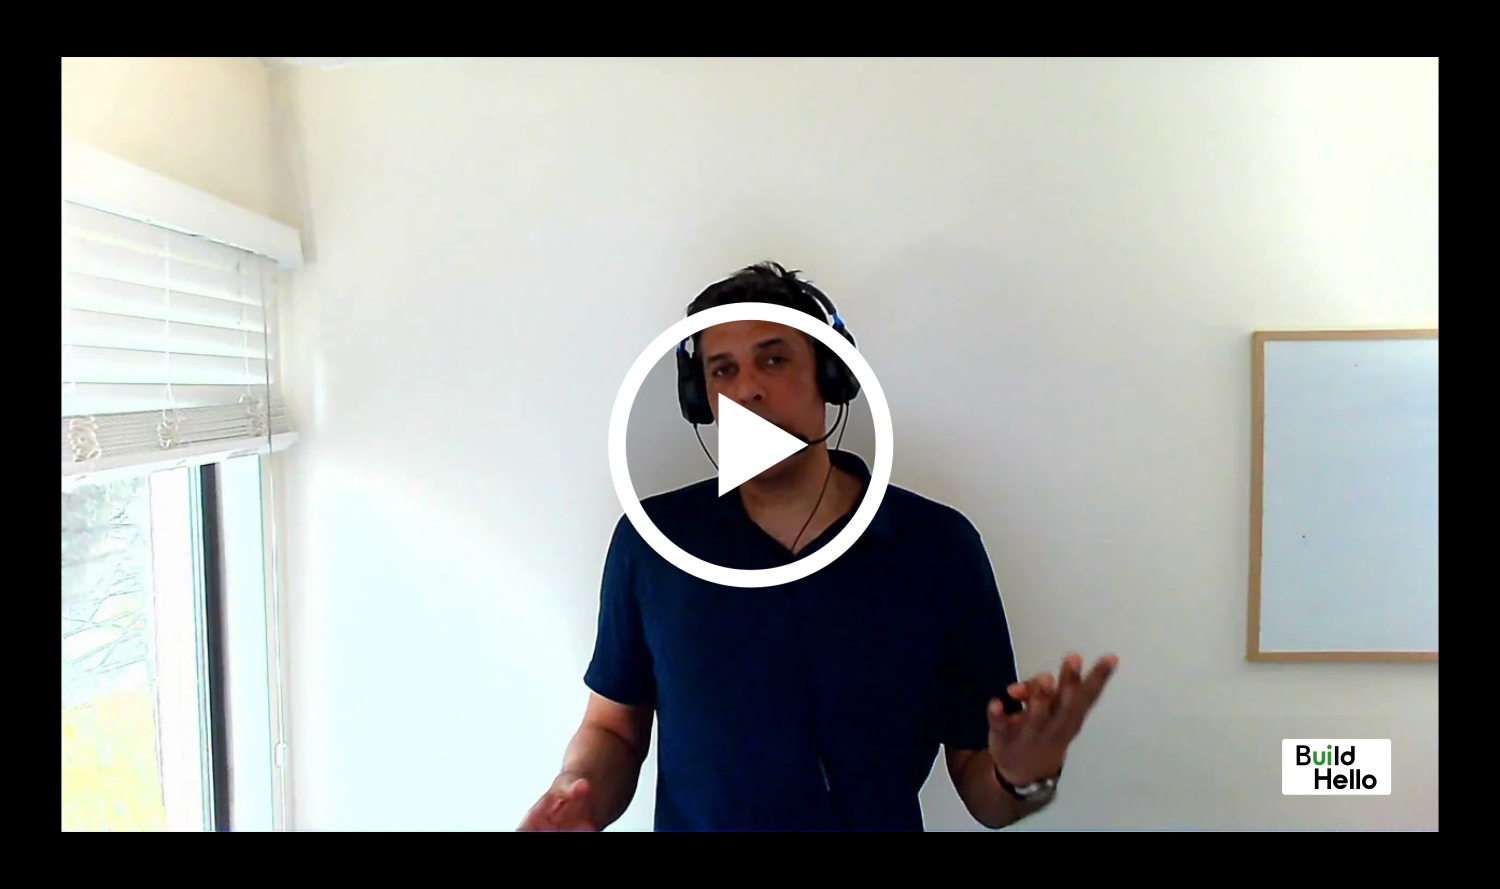
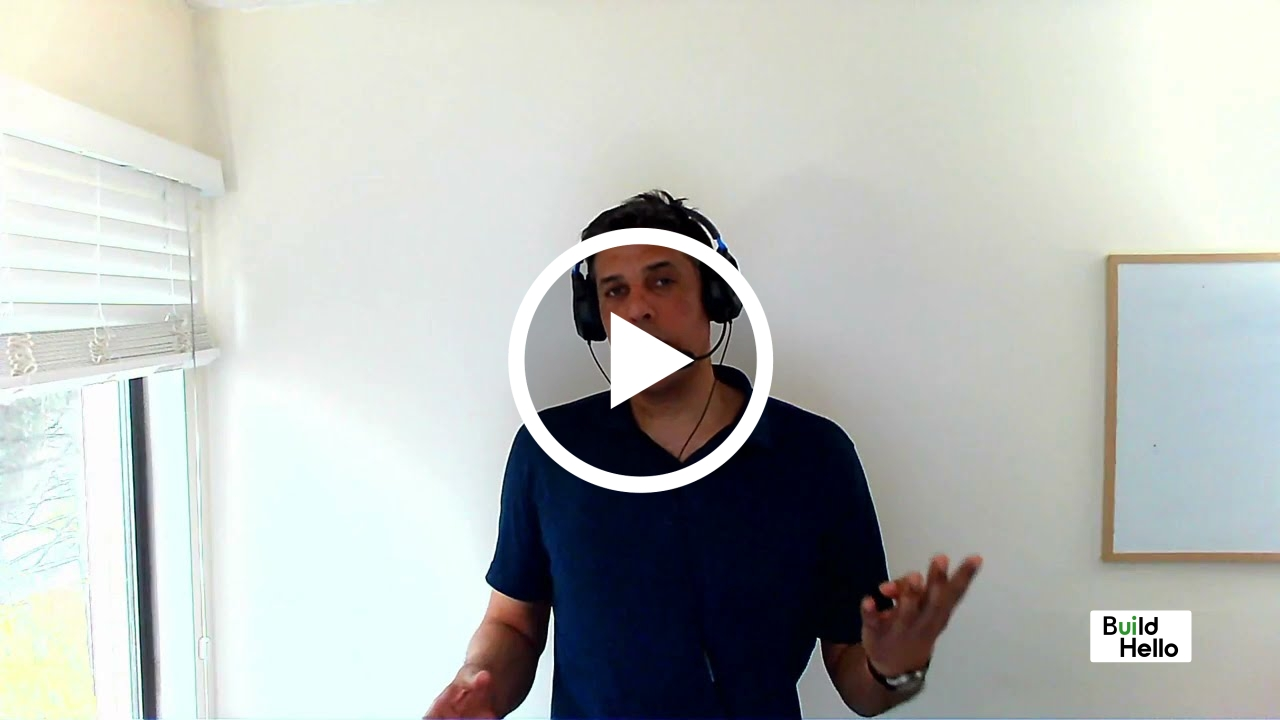
update build hello

diff --git a/blog/2021-11-19-what-is-lighthouse/index.html b/blog/2021-11-19-what-is-lighthouse/index.html
@@ -1,5 +1,5 @@
 <!doctype html><html lang="en"><head><meta charset="utf-8"><meta http-equiv="X-UA-Compatible" content="IE=edge,chrome=1"><meta name="author" content="Build Hello"><meta name="copyright" content="Copyright 2020 - 2021 by Build Hello All rights reserved."><meta name="viewport" content="width=device-width,height=device-height,initial-scale=1,minimum-scale=1,shrink-to-fit=no"><script type="text/json" id="csp-report-uri">{"keys" : ["blockedURI", "columnNumber", "disposition", "documentURI", "effectiveDirective", "lineNumber", "originalPolicy", "referrer", "sample", "sourceFile", "statusCode", "violatedDirective"],
-"reportUri" : "https://20d3a3ce41e0e657296e6f466608bffa.report-uri.com/r/d/csp/enforce"}</script><script src="https://cdn.report-uri.com/libs/report-uri-js/1.0.1/report-uri-js.min.js" integrity="sha256-Cng8gUe98XCqh5hc8nAM3y5I1iQHBjzOl8X3/iAd4jE=" crossorigin="anonymous"></script><meta http-equiv="Content-Security-Policy" content="upgrade-insecure-requests; block-all-mixed-content; default-src 'self';style-src 'self' 'unsafe-inline' fonts.googleapis.com fonts.gstatic.com; script-src 'self' 'unsafe-eval' 'unsafe-inline' fonts.googleapis.com fonts.gstatic.com google.com/recaptcha gstatic.com/recaptcha googletagmanager.com www.googletagmanager.com graphcomment.com *.graphcomment.com cdn.report-uri.com cdnjs.cloudflare.com static.hotjar.com script.hotjar.com; media-src 'self' youtube.com youtube-nocookie.com www.youtube.com www.youtube-nocookie.com vimeo.com www.vimeo.com; frame-src 'self' youtube.com youtube-nocookie.com www.youtube.com www.youtube-nocookie.com vimeo.com www.vimeo.com graphcomment.com *.graphcomment.com vars.hotjar.com; font-src 'self' fonts.googleapis.com fonts.gstatic.com; object-src 'none'; base-uri 'none'; child-src 'self'; form-action 'self'; connect-src 'self' 20d3a3ce41e0e657296e6f466608bffa.report-uri.com in.hotjar.com wss://ws25.hotjar.com/api/v2/client/ws; report-to 20d3a3ce41e0e657296e6f466608bffa.report-uri.com; img-src 'self' https:;"><meta name="robots" content="index, follow"><meta name="google-site-verification" content="I8ZBMowClV_2DO6SigzjOEdvOhU5jV3os0quZUfAlEw"><meta name="yandex-verification" content="9dfca4d06b727ce3"><meta name="msvalidate.01" content="960F8155B6BC3164C51A15F257394A3E"><title>What is Lighthouse? | Build Hello | We design, code, and fix websites</title><meta property="article:author" content="Yuri Tricys"><link rel="canonical" href="https://buildhello.ca/blog/2021-11-19-what-is-lighthouse/"><meta name="theme-color" content="#ffffff"><meta property="og:title" content="What is Lighthouse?"><meta property="og:image" content="https://buildhello.ca/blog/2021-11-19-what-is-lighthouse/what_is_lighthouse_og_hu44aa6af88b9ae841eb880ded12e483c2_226054_1500x0_resize_q94_box.jpg"><meta property="og:image:secure_url" content="https://buildhello.ca/blog/2021-11-19-what-is-lighthouse/what_is_lighthouse_og_hu44aa6af88b9ae841eb880ded12e483c2_226054_1500x0_resize_q94_box.jpg"><meta property="og:image:width" content="1500"><meta property="og:image:height" content="889"><meta property="og:image:alt" content="An image of what is lighthouse og."><meta property="og:image:type" content="image/jpg"><meta property="og:image" content="https://buildhello.ca/blog/2021-11-19-what-is-lighthouse/perfomance_audit_lighthouse_hu5e2f376d2e40cbbd9c32df0a6beaca52_150073_1500x0_resize_q94_box.jpg"><meta property="og:image:secure_url" content="https://buildhello.ca/blog/2021-11-19-what-is-lighthouse/perfomance_audit_lighthouse_hu5e2f376d2e40cbbd9c32df0a6beaca52_150073_1500x0_resize_q94_box.jpg"><meta property="og:image:width" content="1500"><meta property="og:image:height" content="984"><meta property="og:image:alt" content="An image of perfomance audit lighthouse."><meta property="og:image:type" content="image/jpg"><meta property="og:image" content="https://buildhello.ca/blog/2021-11-19-what-is-lighthouse/what_is_lighthouse_og_hu44aa6af88b9ae841eb880ded12e483c2_226054_1500x0_resize_q94_box.jpg"><meta property="og:image:secure_url" content="https://buildhello.ca/blog/2021-11-19-what-is-lighthouse/what_is_lighthouse_og_hu44aa6af88b9ae841eb880ded12e483c2_226054_1500x0_resize_q94_box.jpg"><meta property="og:image:width" content="1500"><meta property="og:image:height" content="889"><meta property="og:image:alt" content="An image of what is lighthouse og."><meta property="og:image:type" content="image/jpg"><meta property="og:image" content="https://buildhello.ca/blog/2021-11-19-what-is-lighthouse/what_is_lighthouse_og.png"><meta property="og:image:secure_url" content="https://buildhello.ca/blog/2021-11-19-what-is-lighthouse/what_is_lighthouse_og.png"><meta property="og:image:width" content="1500"><meta property="og:image:height" content="889"><meta property="og:image:alt" content="An image of what is lighthouse og."><meta property="og:image:type" content="image/png"><meta property="og:type" content="article"><meta property="article:section" content="blog"><meta property="article:published_time" content="2021-11-19T00:00:00+00:00"><meta property="article:modified_time" content="2021-11-19T00:00:00+00:00"><meta property="og:description" content="An explanation of Chrome's Lighthouse for non-techies..."><meta property="og:site_name" content="Build Hello"><meta property="og:url" content="https://buildhello.ca/blog/2021-11-19-what-is-lighthouse/"><meta property="og:locale" content="en_CA"><meta property="og:locale:alternate" content="en_GB"><meta property="og:locale:alternate" content="en_US"><meta property="og:video" content="https://youtu.be/_GbkWQ-nup0"><meta property="og:video:secure_url" content="https://youtu.be/_GbkWQ-nup0"><meta property="og:video:type" content="video/"><meta name="twitter:card" content="summary"><meta name="twitter:title" content="What is Lighthouse?"><meta name="twitter:description" content='What is Lighthouse? Chrome browser comes a website auditor included. You can use it to audit your website.
+"reportUri" : "https://20d3a3ce41e0e657296e6f466608bffa.report-uri.com/r/d/csp/enforce"}</script><script src="https://cdn.report-uri.com/libs/report-uri-js/1.0.1/report-uri-js.min.js" integrity="sha256-Cng8gUe98XCqh5hc8nAM3y5I1iQHBjzOl8X3/iAd4jE=" crossorigin="anonymous"></script><meta http-equiv="Content-Security-Policy" content="upgrade-insecure-requests; block-all-mixed-content; default-src 'self';style-src 'self' 'unsafe-inline' fonts.googleapis.com fonts.gstatic.com; script-src 'self' 'unsafe-eval' 'unsafe-inline' fonts.googleapis.com fonts.gstatic.com google.com/recaptcha gstatic.com/recaptcha googletagmanager.com www.googletagmanager.com graphcomment.com *.graphcomment.com cdn.report-uri.com cdnjs.cloudflare.com static.hotjar.com script.hotjar.com; media-src 'self' youtube.com youtube-nocookie.com www.youtube.com www.youtube-nocookie.com vimeo.com www.vimeo.com; frame-src 'self' youtube.com youtube-nocookie.com www.youtube.com www.youtube-nocookie.com vimeo.com www.vimeo.com graphcomment.com *.graphcomment.com vars.hotjar.com; font-src 'self' fonts.googleapis.com fonts.gstatic.com; object-src 'none'; base-uri 'none'; child-src 'self'; form-action 'self'; connect-src 'self' 20d3a3ce41e0e657296e6f466608bffa.report-uri.com in.hotjar.com wss://ws25.hotjar.com/api/v2/client/ws; report-to 20d3a3ce41e0e657296e6f466608bffa.report-uri.com; img-src 'self' https:;"><meta name="robots" content="index, follow"><meta name="google-site-verification" content="I8ZBMowClV_2DO6SigzjOEdvOhU5jV3os0quZUfAlEw"><meta name="yandex-verification" content="9dfca4d06b727ce3"><meta name="msvalidate.01" content="960F8155B6BC3164C51A15F257394A3E"><title>What is Lighthouse? | Build Hello | We design, code, and fix websites</title><meta property="article:author" content="Yuri Tricys"><link rel="canonical" href="https://buildhello.ca/blog/2021-11-19-what-is-lighthouse/"><meta name="theme-color" content="#ffffff"><meta property="og:title" content="What is Lighthouse?"><meta property="og:image" content="https://buildhello.ca/blog/2021-11-19-what-is-lighthouse/what_is_lighthouse_og_hue116e21651e01a2f7b9d1ce5b3eae7ba_192066_1280x0_resize_q94_box.jpg"><meta property="og:image:secure_url" content="https://buildhello.ca/blog/2021-11-19-what-is-lighthouse/what_is_lighthouse_og_hue116e21651e01a2f7b9d1ce5b3eae7ba_192066_1280x0_resize_q94_box.jpg"><meta property="og:image:width" content="1280"><meta property="og:image:height" content="720"><meta property="og:image:alt" content="An image of what is lighthouse og."><meta property="og:image:type" content="image/jpg"><meta property="og:image" content="https://buildhello.ca/blog/2021-11-19-what-is-lighthouse/perfomance_audit_lighthouse_hu5e2f376d2e40cbbd9c32df0a6beaca52_150073_1500x0_resize_q94_box.jpg"><meta property="og:image:secure_url" content="https://buildhello.ca/blog/2021-11-19-what-is-lighthouse/perfomance_audit_lighthouse_hu5e2f376d2e40cbbd9c32df0a6beaca52_150073_1500x0_resize_q94_box.jpg"><meta property="og:image:width" content="1500"><meta property="og:image:height" content="984"><meta property="og:image:alt" content="An image of perfomance audit lighthouse."><meta property="og:image:type" content="image/jpg"><meta property="og:image" content="https://buildhello.ca/blog/2021-11-19-what-is-lighthouse/what_is_lighthouse_og_hue116e21651e01a2f7b9d1ce5b3eae7ba_192066_1280x0_resize_q94_box.jpg"><meta property="og:image:secure_url" content="https://buildhello.ca/blog/2021-11-19-what-is-lighthouse/what_is_lighthouse_og_hue116e21651e01a2f7b9d1ce5b3eae7ba_192066_1280x0_resize_q94_box.jpg"><meta property="og:image:width" content="1280"><meta property="og:image:height" content="720"><meta property="og:image:alt" content="An image of what is lighthouse og."><meta property="og:image:type" content="image/jpg"><meta property="og:type" content="article"><meta property="article:section" content="blog"><meta property="article:published_time" content="2021-11-19T00:00:00+00:00"><meta property="article:modified_time" content="2021-11-19T00:00:00+00:00"><meta property="og:description" content="An explanation of Chrome's Lighthouse for non-techies..."><meta property="og:site_name" content="Build Hello"><meta property="og:url" content="https://buildhello.ca/blog/2021-11-19-what-is-lighthouse/"><meta property="og:locale" content="en_CA"><meta property="og:locale:alternate" content="en_GB"><meta property="og:locale:alternate" content="en_US"><meta property="og:video" content="https://youtu.be/_GbkWQ-nup0"><meta property="og:video:secure_url" content="https://youtu.be/_GbkWQ-nup0"><meta property="og:video:type" content="video/"><meta name="twitter:card" content="summary"><meta name="twitter:title" content="What is Lighthouse?"><meta name="twitter:description" content='What is Lighthouse? Chrome browser comes a website auditor included. You can use it to audit your website.
 You can read more about lighthouse here.
 Why Should I Audit My Website? Auditing your website will let you know what Chrome thinks about it in terms of "performance," "accessibility," "best practices," and "'><meta name="description" content='What is Lighthouse? Chrome browser comes a website auditor included. You can use it to audit your website.
 You can read more about lighthouse here.
